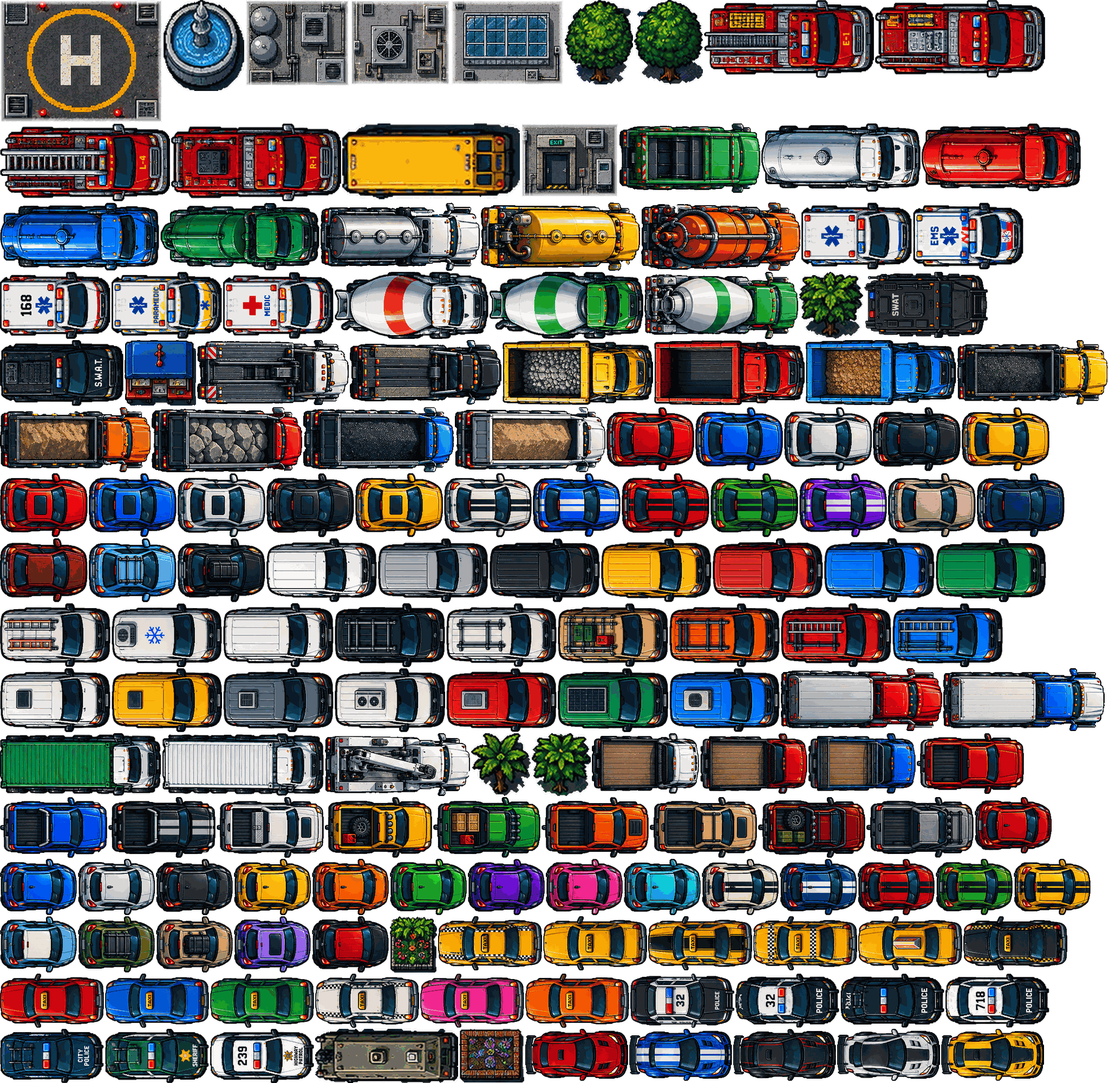
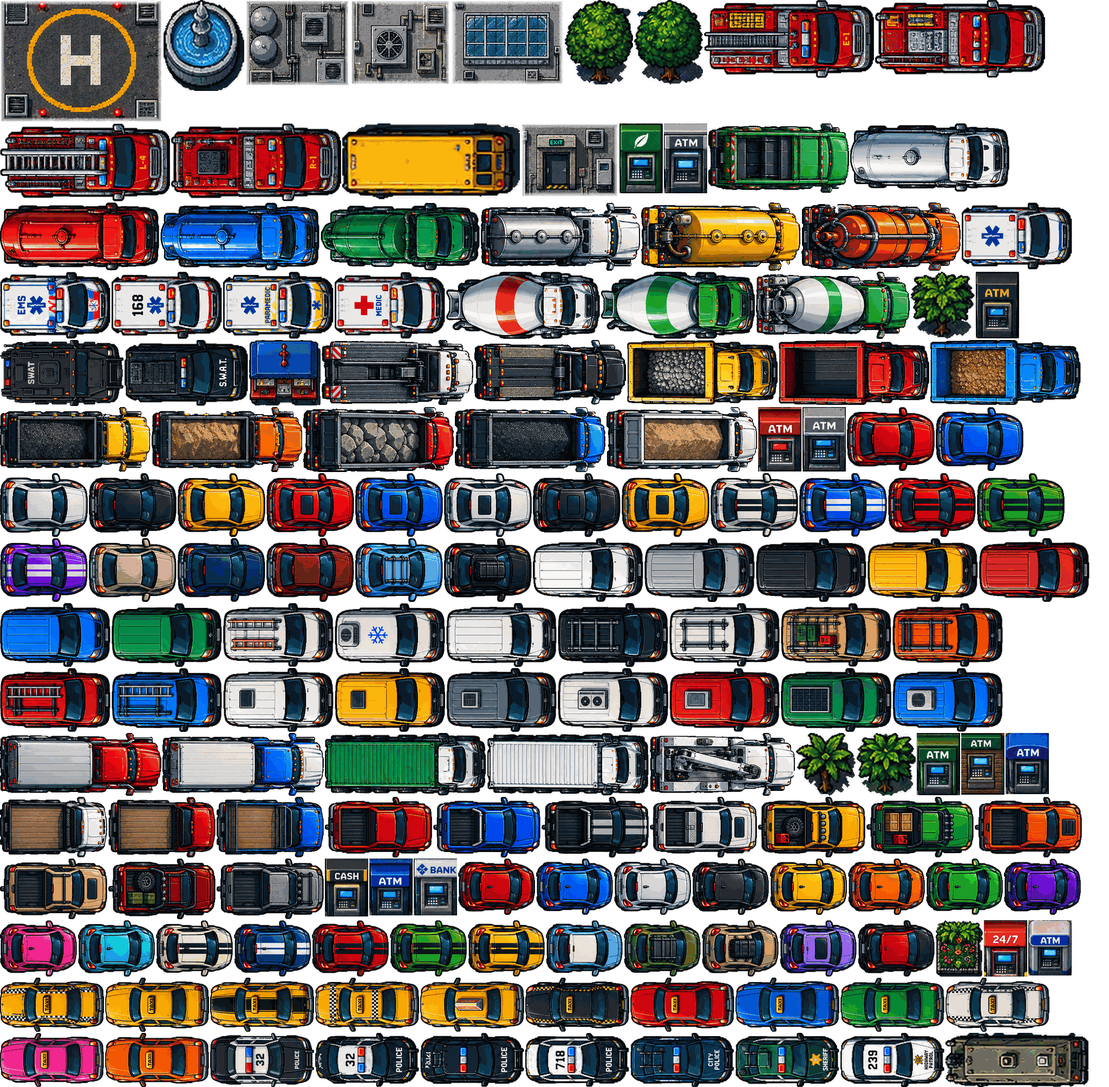
Round 8b: ATMs set into building fronts (and inside clubs/stores), new ATM art
- wallAtm/atmSpot: machines stand against shop, bank, bar and office fronts on clear paving,
  away from doors, props and pumps; bank branches get theirs beside the door (bank2 uses its
  painted machine); every nightclub and every other corner store has one inside.
- Freestanding kiosks only in farm/desert districts with no usable front, at the verge's back
  edge; wild districts have none.
- 16 units cut from the ATM concept sheet (branded units and the drive-through left out),
  drawn depth-sorted and solid, screens glow at night; $ marker floats above the machine.
- Tutorial v20, DEVLOG, art inventory, test asserts machines are walled or indoors.

Claude-Session: https://claude.ai/code/session_015TdwbASoLBxZr1VoEZGToX

diff --git a/shared/map.js b/shared/map.js
@@ -1574,9 +1574,9 @@ function placePrefab(m, row, key, x, special, rand) {
         addProp(m, 'bench_m', (x + pf.tw * 0.74) * TILE, py + 6, 0);
       }
       if (kind === 'bank') {
-        const ax = dd.px - 64;
-        m.props.push({ t: 'atm', x: ax, y: dd.py - 8 });
-        m.pois.push({ id: m.pois.length, kind: 'atm', label: 'ATM', x: ax, y: dd.py + 6, r: 36 });
+        // the branch's cash machine: the one painted beside its door, or one set into the wall
+        if (PAINTED_ATM[key] !== undefined) m.pois.push({ id: m.pois.length, kind: 'atm', label: 'ATM', x: (x + PAINTED_ATM[key] * pf.tw) * TILE, y: (b.ty + b.th) * TILE + 26, r: 36 });
+        else if (![-64, 64, -100, 100].some((dx) => wallAtm(m, b, dd.px + dx, 'bank'))) wallAtm(m, b, dd.px + (dd.px - 64 > b.tx * TILE + 20 ? -64 : 64), 'bank', true);
       }
       if (kind === 'coffee' || kind === 'sports' || kind === 'pharmacy') {
         const vx = dd.px + 56, vy = dd.py + 12;
@@ -1631,7 +1631,7 @@ function roofBuilding(m, row, x, y, w, h, st, rand) {
 function buildBanking(m) {
   const distOf = (p) => m.dist[Math.floor(p.y / TILE) * MAP_W + Math.floor(p.x / TILE)];
   const walk = (x, y) => { const t = m.tileAtPx(x, y); return t === T.SIDEWALK || t === T.PLAZA || t === T.LOT || t === T.GRASS; };
-  const addAtm = (x, y) => { m.props.push({ t: 'atm', x, y: y - 14 }); m.pois.push({ id: m.pois.length, kind: 'atm', label: 'ATM', x, y, r: 36 }); };
+  const addAtm = (b, x, side) => { if (b && ![1.6, -1.6, 2.4, -2.4].some((k) => wallAtm(m, b, x + side * k, 'bank'))) wallAtm(m, b, x + side * 1.6, 'bank', true); };
   const shops = () => m.pois.filter((p) => p.kind === 'delivery' && p.b !== undefined && !p.fixed);
   // a branch in each part of the world, and in the outlying neighbourhoods of the big city
   const areas = Object.values(ISLANDS).filter((I) => !I.boatOnly).map((I) => ({ name: I.name, box: I.box, inside: (p) => m.zoneAt(p.x, p.y) === I.zone }));
@@ -1651,60 +1651,125 @@ function buildBanking(m) {
     c.kind = 'bank'; c.label = `First Pixel Bank - ${dname}`; c.r = 48;
     const b = m.buildings[c.b];
     if (b) for (const s of b.signs) if (s.text === old) s.text = 'First Pixel Bank';
-    addAtm(c.x + side, c.y + 6);
+    addAtm(b, c.x, side);
   }
-  DISTRICTS.forEach((d, di) => {
-    const cands = shops().filter((p) => distOf(p) === di && walk(p.x + 40, p.y));
-    cands.sort((a, b) => hash2(a.x | 0, a.y | 0, 17) - hash2(b.x | 0, b.y | 0, 17));
-    const picked = [];
-    for (const c of cands) {
-      if (picked.length >= 2) break;
-      if (picked.some((q) => Math.hypot(q.x - c.x, q.y - c.y) < 1200)) continue;
-      if (m.pois.some((q) => q.kind === 'atm' && Math.hypot(q.x - c.x, q.y - c.y) < 600)) continue;
-      picked.push(c);
-      addAtm(c.x + 40, c.y + 6);
-    }
-  });
 }
 
-// Street ATMs everywhere people go: every district with streets gets a few (busy districts more),
-// standing on the pavement beside the road, spread out, preferring spots near shops and
-// landmarks. Deposits are quick (see server/systems/economy.js), so cash need never be carried far.
+// Cash machines. Nearly all of them are set into a building front: against the wall beside a
+// shop, bank or bar door, on the pavement in front (wallAtm). Every district with streets gets a
+// few - busy districts more - spread out and preferring spots near shops and landmarks; the
+// nightclubs and some corner stores have one inside. Only where a district has no building
+// front to use at all does a freestanding kiosk go up, at the edge of the pavement. Deposits are
+// quick (see server/systems/economy.js), so cash need never be carried far.
 const ATM_TARGET = { towers: 5, commercial: 5, nightlife: 4, redlight: 4, oldtown: 4, civic: 4, apartments: 4, southside: 4, houses: 3, luxury: 3, beach: 3, harbor: 3, industrial: 3, factory: 2, park: 2, airport: 2, rural: 2, desert: 2, rocky: 0, wild: 1, water: 0 };
 const ATM_SPACING = 700;
+// lots with a cash machine painted beside the door: x fraction of the lot (no sprite needed)
+const PAINTED_ATM = { bank2: 0.488 };
+const ATM_LOOKS = ['blue', 'red', 'green', 'gold', 'grey', 'canopy', 'leaf', 'hood', 'recess', 'cash', 'wood', 'frame'];
+const NO_ATM_FRONT = /^(house|apt|shanty|shack|farm|estate|church|school|park|construction|site|junkyard|pool)/;
+const FOOT = new Set([T.SIDEWALK, T.PLAZA, T.LOT]);
+
+// Can a cash machine stand against building b's front at x (world px)? Its base is on paving
+// right below the wall, clear of doors, other machines and street furniture.
+const FOOT_LOOSE = new Set([T.SIDEWALK, T.PLAZA, T.LOT, T.DIRT, T.GRASS, T.SAND]);
+function atmSpot(m, b, x, loose = false) {
+  const F = loose ? FOOT_LOOSE : FOOT;
+  const wy = (b.ty + b.th) * TILE;
+  if (x < b.tx * TILE + 22 || x > (b.tx + b.tw) * TILE - 22) return false;
+  for (const dx of [-18, 0, 18]) if (m.tileAtPx(x + dx, wy - 6) !== T.BUILDING || !F.has(m.tileAtPx(x + dx, wy + 8))) return false;
+  if (!FOOT_LOOSE.has(m.tileAtPx(x, wy + 36))) return false; // room to stand at it
+  for (const p of m.pois) if (Math.abs(p.x - x) < 52 && p.y > wy - 8 && p.y < wy + 60) return false; // a door (or another ATM) right there
+  for (const q of m.props) if (Math.abs(q.x - x) < 30 && Math.abs(q.y - wy) < 40) return false;
+  for (const pu of m.pumps || []) if (Math.hypot(pu.x - x, pu.y - wy) < 60) return false;
+  return true;
+}
+function wallAtm(m, b, x, look, force = false, loose = false) {
+  if (!force && !atmSpot(m, b, x, loose)) return null;
+  const wy = (b.ty + b.th) * TILE;
+  addProp(m, 'atmw', x, wy + 5, 11, { v: look });
+  const poi = { id: m.pois.length, kind: 'atm', label: 'ATM', x, y: wy + 28, r: 36 };
+  m.pois.push(poi);
+  return poi;
+}
+
 function buildStreetAtms(m) {
   const atms = m.pois.filter((p) => p.kind === 'atm');
-  const roadNear = (tx, ty) => { for (const [dx, dy] of [[1, 0], [-1, 0], [0, 1], [0, -1], [2, 0], [-2, 0], [0, 2], [0, -2]]) { const t = m.tileAt(tx + dx, ty + dy); if (t === T.ROAD) return true; } return false; };
+  const distAt = (x, y) => m.dist[Math.floor(y / TILE) * MAP_W + Math.floor(x / TILE)];
+  // inside: every nightclub, and every other corner store ("ATM inside")
+  let shop = 0;
+  for (const bid of m.walkIns || []) {
+    const b = m.buildings[bid], wi = b.walkIn;
+    for (const u of wi.units) {
+      if (u.kind !== 'club' && !(u.kind === 'convenience' && shop++ % 2 === 0)) continue;
+      const dir = wi.south ? 1 : -1;
+      const row = u.counterRow + dir * 2; // in the room, a step out from the counter
+      if (row < wi.y0 || row > wi.y1) continue;
+      const doorX = u.door.tx + 1;
+      const col = Math.abs(u.x0 - doorX) >= 3 ? u.x0 : Math.abs(u.x1 - doorX) >= 3 ? u.x1 : -1;
+      if (col < 0) continue;
+      const x = (col + 0.5) * TILE + (col === u.x0 ? 2 : -2), y = (row + 1) * TILE - 3;
+      addProp(m, 'atmw', x, y, 11, { v: u.kind === 'club' ? 'neon' : 'allday', inside: bid });
+      const poi = { id: m.pois.length, kind: 'atm', label: 'ATM', x, y: y + 22, r: 36, b: bid };
+      m.pois.push(poi);
+      atms.push(poi);
+    }
+  }
+  // building fronts: three spots along each one that isn't a home / chapel / yard
   const cands = DISTRICTS.map(() => []);
-  for (let ty = 2; ty < MAP_H - 2; ty++) for (let tx = 2; tx < MAP_W - 2; tx++) {
-    const i = ty * MAP_W + tx;
-    const t = m.tiles[i];
-    const paved = t === T.SIDEWALK || t === T.PLAZA || t === T.LOT;
-    if (!paved && t !== T.GRASS && t !== T.DIRT && t !== T.SAND) continue;
-    if (m.reserve[i] & 3 || m.deck[i] || !roadNear(tx, ty)) continue;
-    // open pavement all round (never in a doorway or squeezed against a wall)
-    let ok = true;
-    for (let dy = -1; dy <= 1 && ok; dy++) for (let dx = -1; dx <= 1; dx++) { const q = m.tileAt(tx + dx, ty + dy); if (q === T.BUILDING || q === T.WALL || q === T.WATER || q === T.DEEP || q === T.DOCK) { ok = false; break; } }
-    if (!ok || hash2(tx, ty, 41) > 0.25) continue;
-    cands[m.dist[i]].push({ x: (tx + 0.5) * TILE, y: (ty + 0.5) * TILE, paved });
+  // (out in the country, where the stores front onto dirt and grass, the base may stand on that)
+  const strict = DISTRICTS.map(() => 0);
+  for (const loose of [false, true]) for (const b of m.buildings) {
+    if (b.gone || b.tw < 3 || b.walkIn && b.walkIn.units.some((u) => u.kind === 'club') || NO_ATM_FRONT.test(b.kind)) continue;
+    for (const fx of [0.18, 0.5, 0.82]) {
+      const x = Math.round((b.tx + fx * b.tw) * 2) / 2 * TILE;
+      const di = distAt(x, (b.ty + b.th) * TILE + 8);
+      if (loose && (strict[di] || !['rural', 'desert', 'wild', 'park', 'beach', 'airport', 'factory'].includes(DISTRICTS[di].style))) continue;
+      if (!atmSpot(m, b, x, loose)) continue;
+      cands[di].push({ b, x, y: (b.ty + b.th) * TILE + 28, prefab: b.prefab >= 0, loose });
+      if (!loose) strict[di]++;
+    }
   }
   const busy = (c) => m.pois.reduce((n, p) => n + (p.kind !== 'atm' && Math.abs(p.x - c.x) < 360 && Math.abs(p.y - c.y) < 360 ? 1 : 0), 0);
   DISTRICTS.forEach((d, di) => {
     const want = ATM_TARGET[d.style] ?? 2;
-    let have = atms.filter((p) => m.dist[Math.floor(p.y / TILE) * MAP_W + Math.floor(p.x / TILE)] === di).length;
-    if (have >= want || !cands[di].length) return;
-    const list = cands[di].map((c) => ({ ...c, w: busy(c) + hash2(c.x | 0, c.y | 0, 7) + (c.paved ? 50 : 0) })).sort((a, b) => b.w - a.w); // pavement first, verges if that's all there is
+    let have = atms.filter((p) => distAt(p.x, p.y) === di).length;
+    if (have >= want) return;
+    const list = cands[di].map((c) => ({ ...c, w: busy(c) + hash2(c.x | 0, c.y | 0, 7) + (c.prefab ? 2 : 0) })).sort((a, b) => b.w - a.w);
     for (const c of list) {
       if (have >= want) break;
       if (atms.some((q) => Math.hypot(q.x - c.x, q.y - c.y) < ATM_SPACING)) continue;
-      if (m.pois.some((q) => q.kind !== 'atm' && Math.hypot(q.x - c.x, q.y - c.y) < 50)) continue; // not on anyone's doorstep
-      addProp(m, 'atm', c.x, c.y - 10, 7);
-      const poi = { id: m.pois.length, kind: 'atm', label: 'ATM', x: c.x, y: c.y + 4, r: 36 };
-      m.pois.push(poi);
+      const look = d.style === 'nightlife' || d.style === 'redlight' ? (hash2(c.x | 0, c.y | 0, 3) < 0.5 ? 'neon' : 'cash')
+        : ATM_LOOKS[Math.floor(hash2(c.x | 0, c.y | 0, 5) * ATM_LOOKS.length)];
+      const poi = wallAtm(m, c.b, c.x, look, false, c.loose);
+      if (!poi) continue;
       atms.push(poi);
       have++;
     }
+    if (!have && d.style !== 'wild' && d.style !== 'rocky') kioskAtm(m, di, atms, ['rural', 'desert'].includes(d.style));
   });
+}
+
+// A district with streets but not one building front to use (farm country, the desert): a
+// freestanding kiosk at the back edge of the pavement or verge, never out in the middle of it.
+// The wild places - woods, peaks, the islets - have none.
+function kioskAtm(m, di, atms, loose) {
+  const F = loose ? FOOT_LOOSE : FOOT;
+  for (let ty = 2; ty < MAP_H - 2; ty++) for (let tx = 2; tx < MAP_W - 2; tx++) {
+    const i = ty * MAP_W + tx;
+    if (m.dist[i] !== di || !F.has(m.tiles[i]) || m.reserve[i] & 3 || m.deck[i] || hash2(tx, ty, 41) > 0.3) continue;
+    // pavement with the road in front (south) and no pavement behind it: the back edge
+    if (m.tileAt(tx, ty + 2) !== T.ROAD && m.tileAt(tx, ty + 1) !== T.ROAD) continue;
+    const back = m.tileAt(tx, ty - 1);
+    if ((!loose && FOOT.has(back)) || back === T.ROAD || back === T.WATER || back === T.DEEP) continue;
+    if (m.tileAt(tx - 1, ty) === T.ROAD || m.tileAt(tx + 1, ty) === T.ROAD) continue;
+    const x = (tx + 0.5) * TILE, y = ty * TILE + 4;
+    if (m.props.some((q) => Math.abs(q.x - x) < 40 && Math.abs(q.y - y) < 40)) continue;
+    addProp(m, 'atmw', x, y + 20, 11, { v: 'kiosk' });
+    const poi = { id: m.pois.length, kind: 'atm', label: 'ATM', x, y: y + 42, r: 36 };
+    m.pois.push(poi);
+    atms.push(poi);
+    return;
+  }
 }
 
 // ---- estates: homes outside the city grid -----------------------------------------------------

diff --git a/shared/prefab-data.js b/shared/prefab-data.js
@@ -1669,5 +1669,5 @@ export const PREFABS = {
  }
 };
 export const GROUND_TEX = {"asphalt": [0, 0, 128, 128], "asphalt_worn": [128, 0, 128, 128], "concrete": [256, 0, 128, 128], "brick": [384, 0, 128, 128], "slate": [512, 0, 128, 128], "water": [640, 0, 128, 128], "deep": [768, 0, 128, 128], "grass": [896, 0, 128, 128], "sand": [1024, 0, 128, 128], "dirt": [1152, 0, 128, 128], "deck": [1280, 0, 128, 128]};
-export const PROP_SIZES = {"tree_a": [63, 78], "tree_b": [63, 78], "palm_a": [59, 62], "palm_b": [55, 58], "palm_c": [55, 58], "palm_d": [50, 48], "shrub_a": [40, 39], "shrub_b": [32, 38], "palm_s": [38, 44], "flowerbed": [60, 44], "planter_sq": [31, 32], "planter_g": [33, 34], "bench_a": [40, 31], "bench_b": [40, 33], "bench_m": [40, 32], "trashcan": [10, 16], "dumpster_s": [42, 40], "mailbox": [14, 18], "dumpster_m": [50, 46], "planter_fl": [46, 40], "atm": [9, 20], "news_a": [9, 16], "news_b": [9, 16], "news_c": [10, 16], "hydrant": [10, 16], "hydrant_y": [9, 16], "cone": [10, 14], "bikerack": [30, 28], "bush_a": [24, 30], "bush_b": [23, 30], "bush_c": [34, 36], "umbrella_r": [36, 46], "umbrella_b": [29, 46], "umbrella_g": [30, 46], "umbrella_y": [31, 46], "foodcart": [33, 44], "foodcart_b": [31, 44], "stall": [66, 61], "vend_a": [10, 26], "vend_cola": [11, 26], "vend_c": [10, 26], "produce_a": [29, 30], "produce_b": [29, 30], "pbench": [42, 25], "flowers_a": [48, 33], "flowers_big": [43, 52], "fountain": [75, 84], "mosaic": [60, 49], "potted": [14, 24], "bags": [40, 21], "cart": [36, 28], "dump_g": [38, 46], "dump_b": [36, 46], "dump_o": [30, 46], "tires": [28, 40], "pallet_s": [28, 30], "pallet": [38, 36], "pipes": [46, 29], "rubble": [38, 31], "lumber": [60, 31], "barrier": [46, 29], "wheelbarrow": [36, 26], "gravel": [38, 31], "sandbags": [42, 39], "pallet_b": [44, 37], "drum": [13, 22], "spool": [23, 30], "planks": [36, 38], "roof_ac": [92, 79], "roof_heli": [150, 113], "roof_tanks": [96, 79], "roof_sky": [104, 79], "roof_access": [90, 68]};
+export const PROP_SIZES = {"tree_a": [63, 78], "tree_b": [63, 78], "palm_a": [59, 62], "palm_b": [55, 58], "palm_c": [55, 58], "palm_d": [50, 48], "shrub_a": [40, 39], "shrub_b": [32, 38], "palm_s": [38, 44], "flowerbed": [60, 44], "planter_sq": [31, 32], "planter_g": [33, 34], "bench_a": [40, 31], "bench_b": [40, 33], "bench_m": [40, 32], "trashcan": [10, 16], "dumpster_s": [42, 40], "mailbox": [14, 18], "dumpster_m": [50, 46], "planter_fl": [46, 40], "atm": [9, 20], "news_a": [9, 16], "news_b": [9, 16], "news_c": [10, 16], "hydrant": [10, 16], "hydrant_y": [9, 16], "cone": [10, 14], "bikerack": [30, 28], "bush_a": [24, 30], "bush_b": [23, 30], "bush_c": [34, 36], "umbrella_r": [36, 46], "umbrella_b": [29, 46], "umbrella_g": [30, 46], "umbrella_y": [31, 46], "foodcart": [33, 44], "foodcart_b": [31, 44], "stall": [66, 61], "vend_a": [10, 26], "vend_cola": [11, 26], "vend_c": [10, 26], "produce_a": [29, 30], "produce_b": [29, 30], "pbench": [42, 25], "flowers_a": [48, 33], "flowers_big": [43, 52], "fountain": [75, 84], "mosaic": [60, 49], "potted": [14, 24], "bags": [40, 21], "cart": [36, 28], "dump_g": [38, 46], "dump_b": [36, 46], "dump_o": [30, 46], "tires": [28, 40], "pallet_s": [28, 30], "pallet": [38, 36], "pipes": [46, 29], "rubble": [38, 31], "lumber": [60, 31], "barrier": [46, 29], "wheelbarrow": [36, 26], "gravel": [38, 31], "sandbags": [42, 39], "pallet_b": [44, 37], "drum": [13, 22], "spool": [23, 30], "planks": [36, 38], "atm_blue": [40, 52], "atm_red": [40, 59], "atm_green": [40, 57], "atm_gold": [40, 61], "atm_grey": [40, 60], "atm_bank": [40, 52], "atm_allday": [40, 52], "atm_canopy": [40, 56], "atm_leaf": [40, 65], "atm_neon": [40, 43], "atm_hood": [40, 64], "atm_recess": [40, 44], "atm_cash": [40, 53], "atm_wood": [40, 57], "atm_frame": [40, 48], "atm_kiosk": [40, 51], "roof_ac": [92, 79], "roof_heli": [150, 113], "roof_tanks": [96, 79], "roof_sky": [104, 79], "roof_access": [90, 68]};
 export const VEHICLE_ART_SIZE = {"compact": [71, 52], "sedan": [81, 59], "taxi": [96, 50], "sports": [95, 48], "van": [102, 59], "pickup": [99, 56], "police": [96, 50], "swat": [114, 61], "ambulance": [102, 62], "bike": [49, 19], "speedboat": [103, 48], "dinghy": [83, 39], "flatbed": [140, 60], "boxtruck": [149, 58], "dumptruck": [139, 60], "mixer": [142, 62], "tanker": [147, 63], "garbage": [130, 64], "towtruck": [134, 58], "firetruck": [157, 72], "bus": [164, 70], "armored": [132, 50]};

diff --git a/shared/tutorial.js b/shared/tutorial.js
@@ -30,7 +30,7 @@ import {
 } from './rules.js';
 
 // Bump when the tour changes enough that returning players should be offered it again.
-export const TUTORIAL_VERSION = 19;
+export const TUTORIAL_VERSION = 20;
 
 const price = (shop, id) => (SHOPS[shop].buy.find((o) => o.id === id) || {}).price;
 const min = (ms) => Math.round(ms / 60000);
@@ -98,7 +98,7 @@ export const STEPS = [
   { ch: 'basics', title: 'Hospitals', at: { pois: 'hospital' },
     text: `Hurt? Step onto the {{reception}} mat at any hospital for full treatment ($${HOSPITAL_FEE}). Below 30% health you bleed - [[use]] uses a med kit or bandage from the {{pharmacy}}. {{vending}}s sell energy drinks. If you die you wake up after ${RESPAWN_SECONDS} seconds - at any hospital you choose, or a home you own - and everything you carried stays on the street. You appear at one of several spots around the building, blinking for ${SPAWN_PROTECT_S} seconds: you can move, but you can't shoot or be hurt.` },
   { ch: 'basics', title: 'Cash vs. bank', at: { poi: 'bank' },
-    text: `Cash on you is lost when you die or get robbed. Deposit it at the {{bank}} or any {{atm}} - there are cash machines in every district, marked by a little green $, and just walking up to one (within ${Math.round(ATM_DEPOSIT_PX / TILE * 10) / 10} m) banks everything you're carrying. The phone's Nearest ATM button sets a waypoint to the closest one. Your bank balance is always safe, and anything you sell at a shop is paid straight into it. Log out mid-fight and your body stays in the world for ${GHOST_SECONDS} seconds. Wedged somewhere you can't walk out of? The menu's Stuck? button nudges you to open ground after ${UNSTUCK_S} seconds of standing still - not while wanted, and not within ${UNSTUCK_CALM_S} seconds of a fight. Surrender starts you over: a wanted player turns themself in (fined like a bust), anyone else wakes up as if they'd died. Your character is saved to this browser with no sign-up; to carry it to another device, copy the transfer code from Settings and paste it there.` },
+    text: `Cash on you is lost when you die or get robbed. Deposit it at the {{bank}} or any {{atm}} - there are cash machines set into shop, bank and bar fronts in every district (and inside the nightclubs and some corner stores), marked by a little green $, and just walking up to one (within ${Math.round(ATM_DEPOSIT_PX / TILE * 10) / 10} m) banks everything you're carrying. The phone's Nearest ATM button sets a waypoint to the closest one. Your bank balance is always safe, and anything you sell at a shop is paid straight into it. Log out mid-fight and your body stays in the world for ${GHOST_SECONDS} seconds. Wedged somewhere you can't walk out of? The menu's Stuck? button nudges you to open ground after ${UNSTUCK_S} seconds of standing still - not while wanted, and not within ${UNSTUCK_CALM_S} seconds of a fight. Surrender starts you over: a wanted player turns themself in (fined like a bust), anyone else wakes up as if they'd died. Your character is saved to this browser with no sign-up; to carry it to another device, copy the transfer code from Settings and paste it there.` },
 
   // ---- citizen -------------------------------------------------------------------------------
   { ch: 'citizen', title: 'The honest living', at: { poi: 'warehouse' }, route: { from: { poi: 'warehouse' }, to: { poi: 'delivery' }, veh: 'van' },

diff --git a/client/render/tiles.js b/client/render/tiles.js
@@ -12,7 +12,7 @@ import { railIndex, drawRailChunk, drawStation, drawPortals } from './trains.js'
 import { drawRoads, edgeRect } from './roads.js';
 import { Shores } from './shore.js';
 
-export const OVERHEAD = new Set(['tree_a', 'tree_b', 'palm_a', 'palm_b', 'palm_c', 'palm_d', 'palm_s', 'umbrella_r', 'umbrella_b', 'umbrella_g', 'umbrella_y', 'lamp', 'sigpole']);
+export const OVERHEAD = new Set(['tree_a', 'tree_b', 'palm_a', 'palm_b', 'palm_c', 'palm_d', 'palm_s', 'umbrella_r', 'umbrella_b', 'umbrella_g', 'umbrella_y', 'lamp', 'sigpole', 'atmw']);
 
 const C = {
   grass: ['#4f8f3c', '#4a8838', '#559643', '#45812f'],
@@ -698,6 +698,23 @@ function drawAirport(g, ap, cx, cy) {
   g.restore();
 }
 
+// A cash machine set against a building front: its base on the pavement at (x, y), the unit
+// rising up the wall behind it (depth-sorted with people, so it stands in front of the facade).
+// After dark the screen glows.
+export function drawAtm(g, p, night) {
+  const k = 'atm_' + (p.v || 'blue');
+  const fr = atlas.ready ? atlas.frames['prop_' + k] : null;
+  const s = PROP_SIZES[k] || [34, 46];
+  g.fillStyle = 'rgba(0,0,0,.28)'; g.fillRect(p.x - s[0] / 2 + 2, p.y - 3, s[0], 6);
+  if (fr) g.drawImage(atlas.imgs[fr.a], fr.x, fr.y, fr.w, fr.h, p.x - s[0] / 2, p.y - s[1], s[0], s[1]);
+  else { g.fillStyle = '#2b2f38'; g.fillRect(p.x - 16, p.y - 44, 32, 44); g.fillStyle = '#3d8bff'; g.fillRect(p.x - 9, p.y - 30, 18, 8); }
+  if (night) {
+    g.save(); g.globalCompositeOperation = 'lighter';
+    g.fillStyle = 'rgba(80,160,255,.22)'; g.beginPath(); g.ellipse(p.x, p.y - s[1] * 0.45, 20, 14, 0, 0, 6.283); g.fill();
+    g.restore();
+  }
+}
+
 // Procedural stand-ins for props that have no atlas art yet.
 function drawBoulder(g, p) {
   const k = hash2(p.x | 0, p.y | 0, 7), r = 11 + k * 7;
@@ -729,6 +746,7 @@ function drawPlane(g, p) {
 
 export function drawOverheadProp(g, p, night) {
   if (p.broken || p.t === 'sigpole') return; // signal poles are drawn live with their lights (client/main.js)
+  if (p.t === 'atmw') { drawAtm(g, p, night); return; }
   if (p.t === 'lamp') { p.night = night; drawProp(g, p); return; }
   drawProp(g, p);
 }

diff --git a/test/world.test.js b/test/world.test.js
@@ -79,7 +79,7 @@ test('bicycles: sold at the dealership, slower than a motorcycle, and they buckl
   assert.ok(!p.ped.dead);
 });
 
-test('ATMs in every district with streets; walking up to one banks your cash; the city feed logs events', async () => {
+test('ATMs in every district with streets (set into building fronts, a few inside); walking up to one banks your cash; the city feed logs events', async () => {
   const { DISTRICTS } = await import('../shared/map.js');
   const events = await import('../server/systems/events.js');
   const phone = await import('../server/systems/phone.js');
@@ -90,10 +90,15 @@ test('ATMs in every district with streets; walking up to one banks your cash; th
   DISTRICTS.forEach((d, di) => {
     let road = 0;
     for (let i = 0; i < m.tiles.length && road < 40; i++) if (m.dist[i] === di && m.tiles[i] === 3) road++;
-    if (road >= 40 && d.style !== 'rocky') assert.ok(per.get(di) >= 1, `${d.name} has an ATM`);
+    if (road >= 40 && d.style !== 'rocky' && d.style !== 'wild') assert.ok(per.get(di) >= 1, `${d.name} has an ATM`);
   });
   assert.ok(m.atms.length >= 90, `plenty of ATMs (${m.atms.length})`);
   assert.ok([...per.values()].filter((n) => n >= 3).length >= 15, 'busy districts have several');
+  // a cash machine stands against a building front (or inside one), not out on the pavement
+  const machines = m.props.filter((q) => q.t === 'atmw');
+  const walled = machines.filter((q) => q.inside !== undefined || m.tileAtPx(q.x, q.y - 12) === 5);
+  assert.ok(walled.length >= machines.length - 4, `${machines.length - walled.length} freestanding`);
+  assert.ok(machines.some((q) => q.inside !== undefined), 'some are inside clubs and stores');
   const { p, prof } = joinPlayer(w, { cash: 750, bank: 100 });
   const atm = m.atms[0];
   teleport(w, p.ped, atm.x + 120, atm.y);

diff --git a/client/main.js b/client/main.js
@@ -2275,7 +2275,7 @@ function drawAtmMarks(view, now) {
     const near = Math.hypot(a.x - me.x, a.y - me.y) < 420;
     const bob = Math.sin(now * 2.6 + a.x * 0.01) * (target ? 6 : 2.5);
     const r = target ? 15 : 8;
-    const y = a.y - (target ? 74 : 46) + bob;
+    const y = a.y - (target ? 112 : 88) + bob; // above the machine (the POI is where you stand, in front of it)
     g.save();
     g.globalAlpha = target ? 1 : cash && near ? 0.9 : 0.5;
     if (target) {

diff --git a/tools/build_art.py b/tools/build_art.py
@@ -86,6 +86,19 @@ ITEM_SOURCES = [
 ]
 
 # ----------------------------------------------------------------------------- street props
+# Cash machines from the ATM concept sheet: each unit cut tight to its housing (the wall, bins and
+# plants around it left out) so it can stand against any building front. name -> source box.
+# Units with real-world bank / shop branding (the slashed logos, the bullseye) and the
+# drive-through are left out. 'kiosk' is the one freestanding unit.
+ATM_SHEET = '67874749-image.png'
+ATM_ART = {
+    'blue': (86, 32, 214, 200), 'red': (364, 32, 480, 204), 'green': (650, 32, 774, 210), 'gold': (86, 290, 210, 480),
+    'grey': (372, 304, 490, 480), 'bank': (948, 40, 1070, 200), 'allday': (1244, 34, 1362, 188), 'canopy': (952, 300, 1074, 472),
+    'leaf': (1248, 302, 1358, 480), 'neon': (78, 598, 210, 740), 'hood': (372, 560, 484, 740), 'recess': (92, 864, 200, 984),
+    'cash': (952, 572, 1078, 740), 'wood': (964, 848, 1076, 1008), 'frame': (1242, 860, 1362, 1004), 'kiosk': (1236, 568, 1368, 736),
+}
+ATM_W = 40   # world px wide (a bit wider than a person); height follows the art
+
 PROPS_SHEET = 'ae847b9b-image.png'
 PANELS = {'furn': (602, 42, 1052, 350), 'env': (585, 390, 1025, 622), 'food': (1035, 390, 1440, 622),
           'park': (1100, 660, 1440, 862), 'trash': (392, 660, 730, 862), 'ind': (740, 660, 1095, 862)}
@@ -493,6 +506,12 @@ def build_sprites():
         w, h = (size, size / r) if r >= 1 else (size * r, size)
         prop_sizes[name] = [round(w), round(h)]
         sprites.append(('prop_' + name, fit(c, w * SCALE, h * SCALE)))
+    atm_src = Image.open(find_src(ATM_SHEET)).convert('RGB')
+    for name, box in ATM_ART.items():
+        c = atm_src.crop(box)
+        h = ATM_W * c.height / c.width
+        prop_sizes['atm_' + name] = [ATM_W, round(h)]
+        sprites.append(('prop_atm_' + name, fit(c, ATM_W * SCALE, h * SCALE)))
     roof_src = Image.open(find_src(ROOF_SHEET)).convert('RGB')
     for name, (box, size) in ROOF_MODULES.items():
         c = roof_src.crop(box)

diff --git a/docs/DEVLOG.md b/docs/DEVLOG.md
@@ -1077,3 +1077,22 @@ Playtest:
   - The client picks the frame by speed. A pet that has stood still for over a second sits down, and lost pets now sometimes stop and sit a while between sniffs.
   - New dev command: 🐶 Lost pet nearby.
 - **Tutorial:** the traffic-light and lost-pet stops are updated (`TUTORIAL_VERSION` 19). `assets/worldmap.webp` was rebaked for the new layout.
+
+## 2026-10-04 · Round 8b: cash machines in the walls
+
+- **ATMs stand against buildings now**, not out on the pavement.
+  - Each one is set against a building front: a shop, bank, bar or office, beside the door, with its base on the pavement under the wall (`wallAtm` / `atmSpot` in `shared/map.js`).
+  - A spot is used only where the paving is clear: away from doors, other machines, street furniture and gas pumps. Homes, chapels, schools, parks and yards don't get one.
+  - A bank's machine goes beside its door. First City Bank (`bank2`) already has one painted into its front, so that painted machine is the real ATM there.
+  - Every nightclub has one inside (a neon unit by the dance floor). So does every other corner store (an "ATM inside" 24/7 unit).
+  - In farm country and the desert, where the stores front onto dirt or grass, the machine may stand on that.
+  - A freestanding kiosk is used only where a farming or desert district has no building front at all. It stands at the back edge of the verge. The woods, peaks and islets have none.
+  - Counts: about 97 machines, 21 of them indoors, and 3 kiosks.
+- **New art:** 16 machines from the ATM concept sheet: blue, red, green, gold, grey, a BANK unit, 24/7, a blue canopy, the green leaf, neon, a hooded unit, a recessed one, CASH, wood-panelled, a framed unit and the freestanding kiosk.
+  - Each is cut tight to its housing, so it fits any wall, and drawn 40 px wide.
+  - Machines with real-world branding (the slashed logos, the bullseye) and the drive-through are left out.
+  - Nightlife districts get the neon and CASH units, banks the BANK unit, everywhere else a mix.
+  - The screens glow after dark.
+- The machines are drawn in the depth-sorted pass, so they stand in front of the facade and you can walk in front of them. They're solid.
+- The green $ marker now floats above the machine instead of covering it.
+- Tutorial text updated (`TUTORIAL_VERSION` 20).

diff --git a/docs/ART_INVENTORY.md b/docs/ART_INVENTORY.md
@@ -46,6 +46,10 @@ Walk into any of these and the roof lifts off onto the painted interior:
 - **Paradise Cay** - the palm-island painting raised out of the bay between Westport and Metro City: the land, beaches and jetty follow the painting exactly (sampled into a tile mask), the cabin is solid. Boat-only.
 - **Red Rock Canyon** - the desert canyon painting in the Dry Creek desert: the mesas and cliffs are solid where they're painted, plus the homestead and water tower.
 
+## Cash machines (`assets/atlas*.png`, `prop_atm_*`)
+
+16 ATM units from the ATM concept sheet: blue, red, green, gold, grey, BANK, 24/7, canopy, leaf, neon, hood, recess, CASH, wood, frame, plus the freestanding kiosk. Each is cut tight to its housing (`ATM_ART` in `tools/build_art.py`) so it stands against any building front. The units with real-world branding and the drive-through are not used.
+
 ## Animals (`assets/animals.png`, `tools/build_animals.py`)
 
 Lost pets: two top-down dogs (golden, black), two spaniels, a retriever and three cats (black, grey, ginger) cut from the character sheets. Each has idle, walk (4), run (4) and sit frames. These are **placeholders generated from the single concept pose**: paws swing under the top-down dogs, and the sitting 3/4 views stand up and step. Birds are still **procedural**.
